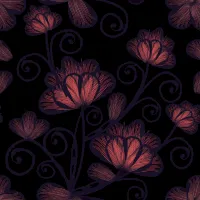
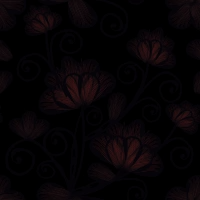
i swear to fucking god if something breaks im going to end myself

diff --git a/mobile.html b/mobile.html
@@ -1,0 +1,60 @@
+<!DOCTYPE html>
+<html lang="en">
+<head>
+    <meta charset="UTF-8">
+    <meta name="viewport" content="width=device-width, initial-scale=1.0">
+    <link rel="shortcut icon" href="assets/mobileAssets/" type="image/x-icon">
+    <link rel="stylesheet" href="assets/mobileAssets/style.css">
+    <title>Mobile = bad</title>    
+    <script src="jQuery/jquery.js" type="text/javascript"></script>
+    <script src="jQuery/jquery-ui.min.js" type="text/javascript"></script>
+    <script type="text/javascript">
+        let msg = document.title;
+        let speed = 600;
+        let pos = 0;
+
+        function moveTitle() {
+            let ml = msg.length;
+
+            title = msg.substr(pos, ml) + ' ' + msg.substr(0, pos);
+            document.title = title;
+
+            pos++;
+            if (pos > ml){
+                pos = 0;
+            }
+            if (!document.hasFocus()) {
+                document.title = 'Mobile = bad'
+            }
+            window.setTimeout("moveTitle()", speed);
+            console.log('ml: ' + ml + ' title: ' + title + ' pos: ' + pos)
+        }
+        moveTitle();
+    </script>
+</head>
+<body>
+        <main id="container">
+        <div id="main">
+            <h3>Hi! If you're seeing this, it seems that you're on a mobile device! ...Or at least on a width that kinda fucks with my site</h3>
+            <span>My site wasn't really made for mobile devices, so I made this redirect to just let you know that there's a VERY high chance of everything breaking! Even on desktop mode!</span><br><br>
+            <span>If you're sure you'd like to continue, click <a href="https://memer.online/homepage">here</a></span><br><br>
+            <span>If you WOULDN'T like to continue... go someplace else idk ヾ(•ω•`)o</span>
+        </div>
+    </main>
+    <script type="text/javascript">
+        let elWIdth = document.documentElement.clientWidth    
+        let changeText = document.getElementById("main")
+
+        function isMobile() {
+            if (elWIdth >= 1080) {
+                changeText.innerHTML = "<h3>This website checks if my site is compatible with your device's width! Looks like you're good to go! You should be redirected to the main page soon!</h3>"
+                setTimeout(() => {
+                    window.location.href = 'https://memer.online/homepage';
+                }, 5100)
+            }
+        }
+        
+        isMobile()
+    </script>
+</body>
+</html>

diff --git a/assets/mobileAssets/style.css b/assets/mobileAssets/style.css
@@ -1,0 +1,87 @@
+body, html {
+    margin: 0;
+    padding: 0;
+}
+
+* {    
+    text-shadow: 1px 2px 0 black;
+    font-family: ms ui gothic;
+}
+
+html {
+    height: 100%;
+}
+
+body {
+    min-height: 100%;
+    color: white;
+    text-shadow: 1px 1px black;
+    font-family: ms ui gothic;
+    background-color: #FFF5C3;
+    background-image: url(mobileBg.gif);
+    background-repeat: repeat-x;
+}
+
+#container {
+    top: 20vw;
+    position: relative;
+    padding: 1vw;
+    text-align: center;
+    background: linear-gradient(180deg, rgba(248,220,159,1) 0%, rgba(252,198,136,1) 50%, rgb(255, 194, 136) 100%);
+    margin: 0 auto;
+    width: 70vw;
+    border-radius: 20px;
+    border: double white 4px;
+}
+
+@media screen and (max-width: 1080px) {
+    a {
+        text-decoration: underline solid;
+        color: rgb(112, 73, 0);
+        cursor: url(../assets/cursor.cur), auto;
+    }
+    
+    a:visited {
+        color: rgb(112, 73, 0);
+        text-decoration: underline solid;
+        cursor: url(../assets/cursor.cur), auto;
+    }
+    
+    a:hover {
+        text-decoration: underline dashed;
+        text-shadow: none;
+        text-underline-offset: 2px;
+        cursor: url(../assets/cursor.cur), auto;
+    }
+
+    body, html {
+        margin: 0;
+        padding: 0;
+    }
+    
+    * {    
+        text-shadow: 1px 2px 0 black;
+        font-family: ms ui gothic;
+    }
+    
+    body {
+        height: 100%;
+        color: white;
+        text-shadow: 1px 1px black;
+        font-family: ms ui gothic;
+        background-color: #FFF5C3;
+        background-image: url(mobileBg.gif);
+        background-repeat: repeat-x;
+    }
+
+    #container {
+        top: 20vw;
+        position: relative;
+        text-align: center;
+        background: linear-gradient(180deg, rgba(248,220,159,1) 0%, rgba(252,198,136,1) 50%, rgb(255, 194, 136) 100%);
+        margin: 0 auto;
+        width: 70vw;
+        border-radius: 20px;
+        border: double white 4px;
+    }
+}

diff --git a/index.html b/index.html
@@ -19,7 +19,19 @@
         <div class="snowflake"><img src="https://cinni.net/images/favi/p/poke_61.gif" style="width:20px;" /></div>
     </div> UNUSED CONTENT, IF YOU'RE SEEING THIS, UNCOMMENT THIS AS WELL AS THE 'snowflakes.css' LINK AND SEE WHAT HAPPENS-->
     <div id="WIPDiv">
-        <span>Warning, this site contains javascript, quite a bit of it actually<br><br><i>!! </i>Not only that, this website is absolutely not optimized for phone, if you're on a mobile device, I suggest you leave because I hate css <img src="assets/buttons/IFUCKINGHATECSS.png" alt=""> <i>!!</i><br><br>Your device has a high chance of lag/a high chance of making my webpage look garbage due to my unoptimized code, <a href="homepage" style="color:darkslateblue;" id="ENGAGE">proceed?</a></span>      
+        <span>Warning, this site contains javascript, quite a bit of it actually<br><br><i>!! </i>Not only that, this website is absolutely not optimized for phone, if you're on a mobile device, I suggest you leave because I hate css <img src="assets/buttons/IFUCKINGHATECSS.png" alt=""> <i>!!</i><br><br>The site was also made on a chromium based browser, any Firefox issues <i>might</i> be fixed in the future... maybe. <br><br> Your device has a high chance of lag/a high chance of making my webpage look garbage due to my unoptimized code, <a href="homepage" style="color:darkslateblue;" id="ENGAGE">proceed?</a></span>
+        <script type="text/javascript">
+            let elWIdth = document.documentElement.clientWidth
+    
+            function isMobile() {
+                if (elWIdth <= 1080) {
+                    setTimeout(() => {
+                        window.location.href = 'https://memer.online/mobile';
+                    }, 0)
+                }
+            }
+            isMobile()
+        </script> 
     </div>
 </body>
 </html>

diff --git a/homepage.html b/homepage.html
@@ -342,7 +342,7 @@
     </section>
 </div>
 <div style="text-align: right;" id="midnightHouse">
-    <span style="display: inline-block; width: 150px; position: relative; text-align: center; top: -3vw;">You see a strange door with a what looks to be a street light shining through, enter?</span><a href="https://midnight.pub" target="_blank" title="Gimmie a drink, bar, tender."><img src="assets/mainAssets/midnightHouse.png" style="position: relative; float: right; width: 10vw; top: -10vw; padding-right: 2vw;" alt=""></a>
+    <span style="display: inline-block; width: 150px; position: relative; text-align: center; top: -3vw;">You see a strange door with a what looks to be a street light shining through, enter?</span><a href="https://memer.midnight.pub/" target="_blank" title="Gimmie a drink, bar, tender."><img src="assets/mainAssets/midnightHouse.png" style="position: relative; float: right; width: 10vw; top: -10vw; padding-right: 2vw;" alt=""></a>
 </div>
     <audio src="main/windowsXpChordSfx.mp3" id="audiotag" preload="auto"></audio>
     <audio src="main/windowsXpExclemationSound.mp3" id="exclemSound" preload="auto"></audio>

diff --git a/roadmap.html b/roadmap.html
@@ -26,7 +26,7 @@
                 <li style="text-align: left;">❥ <s>Make everything on my site movable</s> DONE.</li><br><br>
                 <li style="text-align: right;">❥ <s>Add a "mute music" button</s> Done!</li><br><br>
                 <li style="text-align: left;">❥ <s>Add a scrolling stamp/button thing</s>  (idea ""borrowed"" from <b><a href="https://foolsgarden.cafe/main" style="font-family: Positions; color: black; border: black 2px dotted; background-color: #bd8f9b; padding: 2px;text-shadow: rgb(88, 13, 13) 1px 1px;">foolsgarden's site</a></b>, it's really nice go check it out!! 10/10 expirience and the webmaster is awesome) Done!</li><br><br>
-                <li>❥ Add music to each of my subpages (this is gonna be fun.....)</li><br><br>
+                <li style="text-align: right;">❥ Add music to each of my subpages (this is gonna be fun.....)</li><br><br>
             </ul>            
         </span><br><br><br>
         <div id="cdhomepage" style="text-align: right;">

diff --git a/changelog.html b/changelog.html
@@ -12,7 +12,12 @@
     <img src="/assets/cLogAssets/vine.gif" class="vines" style="position: relative; float: right; top: -127px; transform: scaleX(-1);" alt="">
     <div id="cLogContainer">
         <hr>
-        <span>Changelog [REPLACE WITH DATE]:</span>
+        <span>Changelog 15022024:</span>
+        <ul>
+            <li>[~] Changed homepage bg a bit because it didn't work on firefox</li>
+        </ul>
+        <hr>
+        <span>Changelog 14022024:</span>
         <ul>
             <li>[~] Changed the font of homepage</li>
             <li>[~] Changed mainDiv background</li>

diff --git a/assets/roadmapAssets/style.css b/assets/roadmapAssets/style.css
@@ -33,7 +33,6 @@ body {
     background-blend-mode:multiply;
     background-color:#3b444d;
     height: 90vh;
-    overflow-y: hidden;
     font-family: windows;
     color: white;
     font-size: 1vw;    
@@ -46,13 +45,14 @@ ul{
 
 #roadbackgrond{
     position: relative;
-    top: -20px;
+    top: -5px;
     padding-top: 20px;
     padding-left: 3vw;
     padding-right: 3vw;
+    padding-bottom: 3vw;
     margin: 0 auto;
     background-image: url(ROADmap.png);
     background-size: contain;
     width: 25vw;
-    height: 100vh;
+    height:max-content;
 }

diff --git a/assets/mainAssets/win98player/98PlayerStyle.css b/assets/mainAssets/win98player/98PlayerStyle.css
@@ -7,7 +7,7 @@
     position: absolute;
     text-shadow: none;
     left: 50px;
-    top: 350px;
+    top: 250px;
 }
 
 #musicplayer > div.songtitlewindow {
@@ -28,7 +28,7 @@ i.fas:hover {
 }
 
 body > div.player.drag.ui-draggable.ui-draggable-handle > div {
-    width: 290px;
+    width: 16vw;
 }
 
 i.fas.fa-pause,

diff --git a/main/style.css b/main/style.css
@@ -370,8 +370,6 @@ html {
 body {
   cursor: url(../assets/cursor.cur), auto;
   background: url(/assets/mainAssets/purpleStars.gif);
-  background-blend-mode: hue;
-  background-color: rgba(8, 0, 7, 0.75);
   color: #ede5f1;
   margin: 0;
   min-height: 100%;

diff --git a/style.css b/style.css
@@ -28,8 +28,6 @@ html{
 
 body {
     background: url(assets/mainBg.png);
-    background-color: rgba(34, 34, 34, 0.699);
-    background-blend-mode:color-burn;
     color: white;
     font-size: 1.5vw;
     font-family: ADDSBP__;

diff --git a/assets/mainAssets/win98player/98Script.js b/assets/mainAssets/win98player/98Script.js
@@ -162,5 +162,4 @@ function seekUpdate() {
 
 // load the first track in the tracklist
 loadTrack(track_index);
-playTrack()
-console.log(loopTrack() + " succefully loaded")
+playpauseTrack()

diff --git a/assets/mainAssets/win98player/98Effect.css b/assets/mainAssets/win98player/98Effect.css
@@ -238,7 +238,7 @@ input[type=submit]:disabled {
         inset 2px 2px #ffffff;
     background: #c0c0c0;
     padding: 3px;
-    width: 15vw;
+    width: 12vw;
     height: auto;
 }
 
